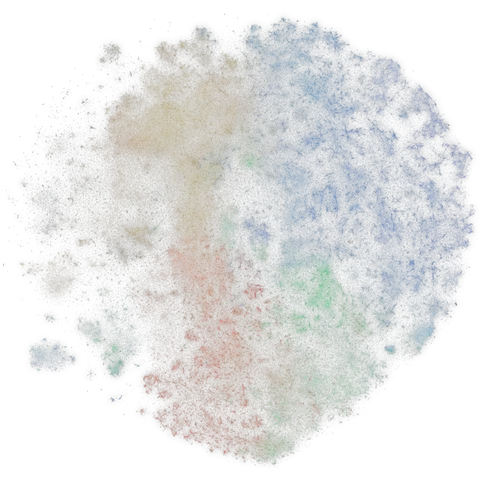
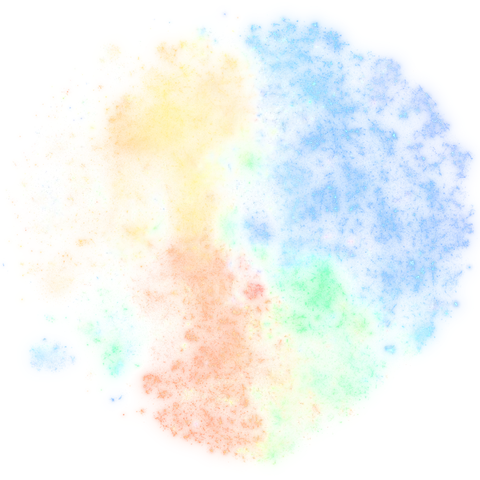
Mock map: long-exposure rendering (summed light, glow at three scales, bright cores) and dense ink for light mode

diff --git a/design/home-mock/make_map.py b/design/home-mock/make_map.py
@@ -23,8 +23,8 @@ OUT = Path(__file__).resolve().parent
 SIZE = 1400
 
 # hue (degrees), saturation per domain
-DOMAINS = {"Life Sciences": (150, 0.50), "Health Sciences": (14, 0.55),
-           "Physical Sciences": (214, 0.46), "Social Sciences": (36, 0.36)}
+DOMAINS = {"Life Sciences": (150, 0.62), "Health Sciences": (14, 0.66),
+           "Physical Sciences": (214, 0.60), "Social Sciences": (38, 0.50)}
 LIGHTNESS = {"light": (0.26, 0.40), "dark": (0.56, 0.70)}  # range over the fields of a domain
 
 meta = json.loads((BUILD / "meta.json").read_text())
@@ -56,21 +56,47 @@ cell = gy * SIZE + gx
 count = np.bincount(cell, minlength=SIZE * SIZE).astype(np.float32)
 grey = np.bincount(cell, weights=np.isin(field, unclassified).astype(np.float32), minlength=SIZE * SIZE)
 
-a = np.log1p(count) / np.log1p(np.percentile(count[count > 0], 99.5))
-a = np.clip(a, 0, 1) ** 0.8
-a = a * np.where(grey >= np.maximum(count, 1) * 0.999, 0.25, 1.0)  # specks of unclassified papers: faint
 
+def blur(img: np.ndarray, sigma: float) -> np.ndarray:
+    """Gaussian blur of a float [H, W, C] image, per channel."""
+    from scipy.ndimage import gaussian_filter
+    return gaussian_filter(img, sigma=(sigma, sigma, 0), mode="constant")
+
+
+def saturate(rgb: np.ndarray, k: float) -> np.ndarray:
+    grey = rgb.mean(-1, keepdims=True)
+    return np.clip(grey + (rgb - grey) * k, 0, None)
+
+
+ref = np.percentile(count[count > 0], 99.7)   # exposure: the densest 0.3 % of places saturate
 for theme in ("light", "dark"):
     pal = palette(theme)
+    # summed colour per place (not averaged): dense places collect more light / more ink
     rgb = np.stack([np.bincount(cell, weights=pal[field, c], minlength=SIZE * SIZE) for c in range(3)], 1)
-    rgb = rgb / np.maximum(count, 1)[:, None]
-    alpha = a ** 0.75 if theme == "light" else a  # on cream, faint ink reads as grey: lift it
-    img = np.concatenate([rgb, alpha[:, None]], 1).reshape(SIZE, SIZE, 4)
-    sharp = Image.fromarray((img * 255).astype(np.uint8), "RGBA").filter(ImageFilter.GaussianBlur(0.7))
-    glow = np.asarray(sharp.filter(ImageFilter.GaussianBlur(10))).astype(np.float32)
-    glow[..., 3] *= 0.30 if theme == "light" else 0.55
-    out = Image.alpha_composite(Image.fromarray(glow.astype(np.uint8), "RGBA"), sharp)
-    out.save(OUT / f"science-map-{theme}.webp", quality=72, method=6)
+    rgb = rgb.reshape(SIZE, SIZE, 3)
+    mute = np.where(grey >= np.maximum(count, 1) * 0.999, 0.3, 1.0).reshape(SIZE, SIZE, 1)
+    rgb = rgb * mute / ref
+    if theme == "dark":
+        # long exposure: stars + glow at three scales, then a film-like curve; bright cores burn toward white
+        light = rgb * 1.6 + blur(rgb, 1.2) * 1.4 + blur(rgb, 6) * 2.2 + blur(rgb, 22) * 3.0
+        light = saturate(light, 1.35)
+        lum = light.max(-1, keepdims=True)
+        exposed = 1 - np.exp(-light * 1.6)
+        white = np.clip((1 - np.exp(-lum * 0.9)) - 0.55, 0, 1) / 0.45   # only the densest cores
+        exposed = exposed * (1 - white * 0.6) + white * 0.6
+        a = np.clip(exposed.max(-1, keepdims=True), 0, 1)
+        out_rgb = np.where(a > 1e-4, exposed / np.maximum(a, 1e-4), 0)
+    else:
+        # ink: each study adds pigment; dense places become deep, saturated ink with a soft shadow
+        # sharp grains carry most of the ink (stars in negative); the wide wash stays light
+        ink = rgb * 2.4 + blur(rgb, 0.9) * 1.6 + blur(rgb, 7) * 1.4 + blur(rgb, 24) * 0.6
+        amount = ink.mean(-1, keepdims=True)
+        a = np.clip(1 - np.exp(-amount * 7.0), 0, 1) * 0.98
+        colour = ink / np.maximum(ink.max(-1, keepdims=True), 1e-6)    # hue of the pigment
+        out_rgb = saturate(colour * (0.58 - 0.34 * a), 1.5)            # deeper where denser
+    img = np.concatenate([np.clip(out_rgb, 0, 1), a], -1)
+    out = Image.fromarray((img * 255).astype(np.uint8), "RGBA")
+    out.save(OUT / f"science-map-{theme}.webp", quality=74, method=6)
     out.resize((480, 480), Image.LANCZOS).save(OUT / f"science-map-{theme}-small.webp", quality=70, method=6)
     print(theme, f"{(OUT / f'science-map-{theme}.webp').stat().st_size / 1e6:.2f} MB")
 
